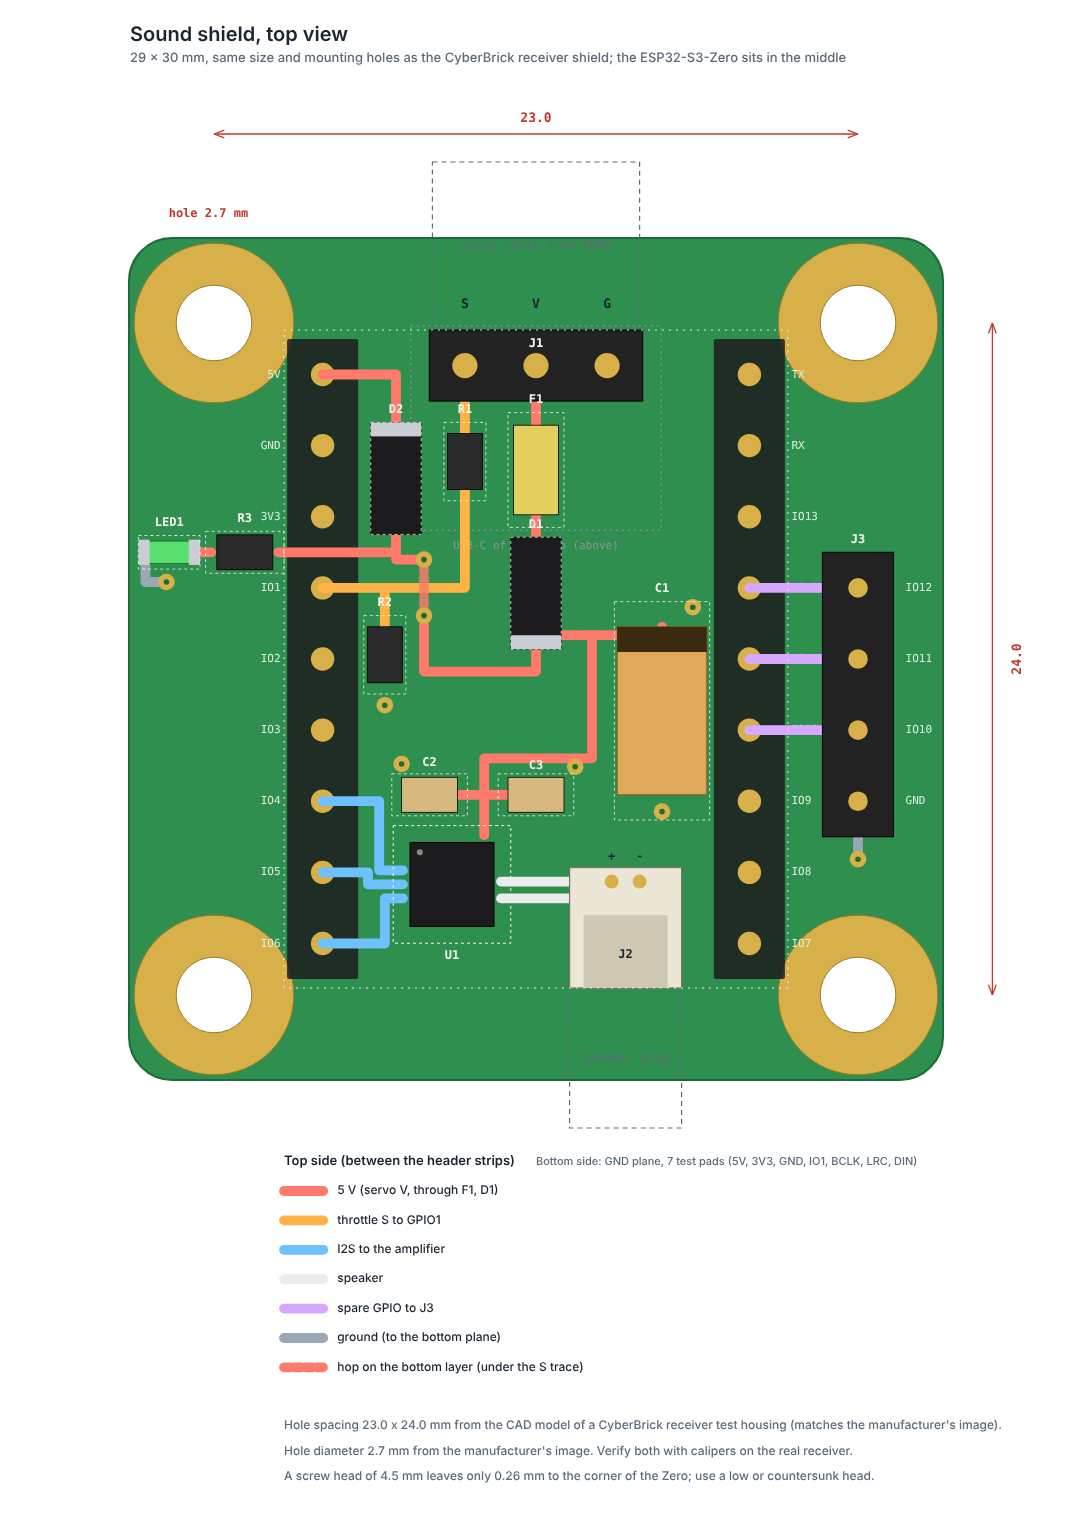
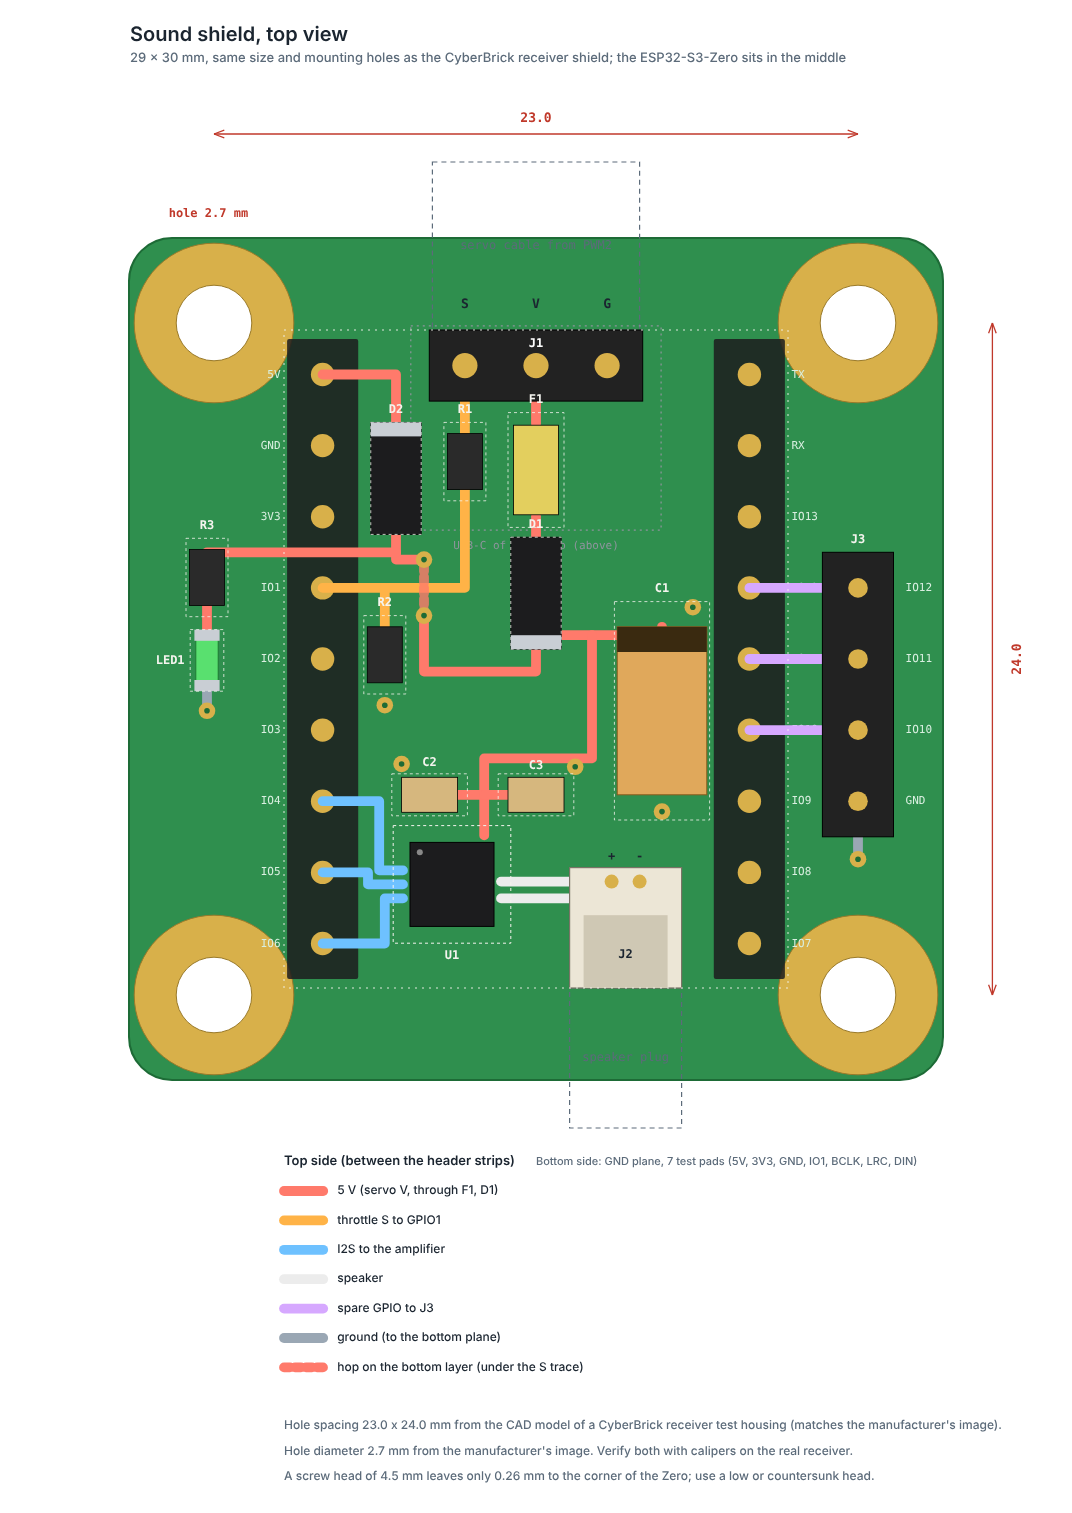
Shield: power LED and its resistor parallel to the board edge
Claude-Session: https://claude.ai/code/session_01RfFviRiwUkSRaVdHR7ASqX

Changed region(s): [[0.1231, 0.3417, 0.2771, 0.497]]

diff --git a/docs/shield-3d.html b/docs/shield-3d.html
@@ -93,7 +93,7 @@ aside h2 { margin: 0; padding: 10px 12px; font-size: 13px; font-weight: 600; let
 <script src="https://cdn.jsdelivr.net/npm/three@0.128.0/examples/js/controls/OrbitControls.js"></script>
 <script>
 (function () {
-  var D = {"board": {"x0": -5.5, "y0": -3.25, "w": 29.0, "h": 30.0, "t": 1.6}, "zero": {"w": 18.0, "l": 23.5}, "holes": [[-2.5, -0.25, 2.7], [20.5, -0.25, 2.7], [-2.5, 23.75, 2.7], [20.5, 23.75, 2.7]], "ringD": 5.7, "hdrX": [1.38, 16.62], "hdrH": 8.5, "pinY": [1.59, 4.13, 6.67, 9.21, 11.75, 14.29, 16.83, 19.37, 21.91], "leftPins": ["5V", "GND", "3V3", "IO1", "IO2", "IO3", "IO4", "IO5", "IO6"], "rightPins": ["TX", "RX", "IO13", "IO12", "IO11", "IO10", "IO9", "IO8", "IO7"], "j1x": [6.46, 9.0, 11.54], "j1y": 1.27, "parts": [{"ref": "J1", "kind": "hdr_ra", "x": 9.0, "y": 1.27, "w": 7.62, "h": 2.54, "z": 2.54, "name": "Input header (S, V, G)", "desc": "3-pin right-angle header at the top edge; the servo cable from PWM2 plugs in from outside. S = throttle copy, V = 5 V, G = ground."}, {"ref": "R1", "kind": "chip_r", "x": 6.46, "y": 4.7, "w": 1.5, "h": 2.8, "z": 0.5, "body": [1.25, 2.0], "name": "Resistor 1 kOhm", "desc": "Series resistor between the throttle signal and GPIO1."}, {"ref": "F1", "kind": "chip_f", "x": 9.0, "y": 5.0, "w": 2.0, "h": 4.1, "z": 1.0, "body": [1.6, 3.2], "name": "Resettable fuse (PTC)", "desc": "1206 PTC, about 0.5 A hold. Limits the current drawn from the servo port (the module takes about 0.1 A)."}, {"ref": "D1", "kind": "diode", "x": 9.0, "y": 9.4, "w": 1.8, "h": 4.0, "z": 1.1, "band": "bottom", "name": "Reverse-polarity diode", "desc": "Schottky diode (SOD-123) protecting the module if the servo cable is plugged in the wrong way round."}, {"ref": "D2", "kind": "diode", "x": 4.0, "y": 5.3, "w": 1.8, "h": 4.0, "z": 1.1, "band": "top", "name": "5 V OR-ing diode", "desc": "Keeps USB 5 V and servo-port 5 V from fighting, so both can be connected at the same time."}, {"ref": "R2", "kind": "chip_r", "x": 3.6, "y": 11.6, "w": 1.5, "h": 2.8, "z": 0.5, "body": [1.25, 2.0], "name": "Resistor 100 kOhm", "desc": "Pull-down on GPIO1, so the input has a defined level when the cable is unplugged."}, {"ref": "C1", "kind": "cap_t", "x": 13.5, "y": 13.6, "w": 3.4, "h": 7.8, "z": 2.8, "body": [3.2, 6.0], "name": "Bulk capacitor 100 uF", "desc": "Polymer/tantalum 6032 case. Absorbs the current peaks of loud passages so the 5 V rail does not sag."}, {"ref": "C2", "kind": "chip_c", "x": 5.2, "y": 16.6, "w": 2.7, "h": 1.5, "z": 0.9, "body": [2.0, 1.25], "name": "Decoupling 10 uF", "desc": "Ceramic 0805 close to the amplifier supply pin."}, {"ref": "C3", "kind": "chip_c", "x": 9.0, "y": 16.6, "w": 2.7, "h": 1.5, "z": 0.6, "body": [2.0, 1.25], "name": "Decoupling 100 nF", "desc": "Ceramic 0805 close to the amplifier supply pin."}, {"ref": "U1", "kind": "qfn", "x": 6.0, "y": 19.8, "w": 4.2, "h": 4.2, "z": 0.8, "body": [3.0, 3.0], "name": "MAX98357A amplifier", "desc": "I2S class-D amplifier, TQFN-16 3 x 3 mm. Receives BCLK, LRC and DIN from the ESP32 and drives the speaker directly."}, {"ref": "J2", "kind": "jst_side", "x": 12.2, "y": 21.35, "w": 4.0, "h": 4.3, "z": 3.9, "name": "Speaker connector (JST SH 1.0)", "desc": "JST SH 1.0 mm 2-pin side-entry connector at the bottom edge, the same type as the CyberBrick motor ports (M1/M2) and button ports. The speaker cable (for example the 2-pin SH cable of a button module) plugs in from outside."}, {"ref": "LED1", "kind": "led", "x": -4.1, "y": 7.94, "w": 2.2, "h": 1.2, "z": 0.6, "margin": true, "name": "Power LED", "desc": "Lights when the servo-port 5 V is present (taken after the reverse-polarity diode D1), so you can see that the cable and the receiver are fine. Hardware only, no firmware needed. Placed beside the Zero because the Zero would hide it."}, {"ref": "R3", "kind": "chip_r", "x": -1.4, "y": 7.94, "w": 2.8, "h": 1.5, "z": 0.5, "body": [2.0, 1.25], "margin": true, "name": "LED resistor 1 kOhm", "desc": "Series resistor of the power LED (about 3 mA)."}, {"ref": "J3", "kind": "hdr_v", "x": 20.5, "y": 13.02, "w": 2.54, "h": 10.16, "z": 2.5, "margin": true, "pins": [[20.5, 9.21], [20.5, 11.75], [20.5, 14.29], [20.5, 16.83]], "pin_names": ["IO12", "IO11", "IO10", "GND"], "name": "Spare GPIO header", "desc": "1x4 pin header with three free GPIOs (IO12, IO11, IO10) and ground, for later inputs, for example a switch for an engine-stop sound."}], "nets": [{"net": "S", "color": "#ffb347", "pts": [[6.46, 1.27], [6.46, 3.8]]}, {"net": "S", "color": "#ffb347", "pts": [[6.46, 5.6], [6.46, 9.21], [1.38, 9.21]]}, {"net": "V", "color": "#ff7a6b", "pts": [[9.0, 1.27], [9.0, 3.35]]}, {"net": "V", "color": "#ff7a6b", "pts": [[9.0, 6.65], [9.0, 7.9]]}, {"net": "5V", "color": "#ff7a6b", "pts": [[9.0, 10.9], [13.5, 10.9], [13.5, 10.6]]}, {"net": "5V", "color": "#ff7a6b", "pts": [[9.0, 10.9], [9.0, 12.2], [5.0, 12.2], [5.0, 10.2]]}, {"net": "5V", "color": "#ff7a6b", "layer": "bot", "pts": [[5.0, 10.2], [5.0, 8.2]]}, {"net": "5V", "color": "#ff7a6b", "pts": [[5.0, 8.2], [4.0, 8.2], [4.0, 6.9]]}, {"net": "5V", "color": "#ff7a6b", "pts": [[4.0, 3.7], [4.0, 1.59], [1.38, 1.59]]}, {"net": "5V", "color": "#ff7a6b", "pts": [[11.0, 10.9], [11.0, 15.3], [7.15, 15.3], [7.15, 18.05]]}, {"net": "5V", "color": "#ff7a6b", "pts": [[6.2, 16.6], [7.15, 16.6]]}, {"net": "5V", "color": "#ff7a6b", "pts": [[7.15, 16.6], [8.0, 16.6]]}, {"net": "DIN", "color": "#6ec1ff", "pts": [[1.38, 16.83], [3.4, 16.83], [3.4, 19.3], [4.25, 19.3]]}, {"net": "BCLK", "color": "#6ec1ff", "pts": [[1.38, 19.37], [3.0, 19.37], [3.0, 19.8], [4.25, 19.8]]}, {"net": "LRC", "color": "#6ec1ff", "pts": [[1.38, 21.91], [3.6, 21.91], [3.6, 20.3], [4.25, 20.3]]}, {"net": "SPK+", "color": "#ececec", "pts": [[7.75, 19.7], [11.7, 19.7]]}, {"net": "SPK-", "color": "#ececec", "pts": [[7.75, 20.3], [12.7, 20.3], [12.7, 19.7]]}, {"net": "S", "color": "#ffb347", "pts": [[3.6, 9.21], [3.6, 10.6]]}, {"net": "5V", "color": "#ff7a6b", "pts": [[4.0, 7.94], [-0.2, 7.94]]}, {"net": "5V", "color": "#ff7a6b", "pts": [[-2.6, 7.94], [-3.25, 7.94]]}, {"net": "GND", "color": "#9aa7b4", "pts": [[-4.95, 7.94], [-4.95, 9.0], [-4.2, 9.0]]}, {"net": "IO12", "color": "#d6a8ff", "pts": [[16.62, 9.21], [20.5, 9.21]]}, {"net": "IO11", "color": "#d6a8ff", "pts": [[16.62, 11.75], [20.5, 11.75]]}, {"net": "IO10", "color": "#d6a8ff", "pts": [[16.62, 14.29], [20.5, 14.29]]}, {"net": "GND", "color": "#9aa7b4", "pts": [[20.5, 16.83], [20.5, 18.9]]}], "j2Pads": [[11.7, 19.7], [12.7, 19.7]], "gndVias": [[3.6, 13.4], [4.2, 15.5], [10.4, 15.6], [13.5, 17.2], [6.0, 19.8], [14.6, 9.9], [-4.2, 9.0], [20.5, 18.9]], "hopVias": [[5.0, 10.2], [5.0, 8.2]], "tp": [[3.4, 22.7], [5.4, 22.7], [7.4, 22.7], [9.4, 22.7], [11.4, 22.7], [13.4, 22.7], [15.4, 22.7]], "tpNames": ["5V", "3V3", "GND", "IO1", "BCLK", "LRC", "DIN"]};
+  var D = {"board": {"x0": -5.5, "y0": -3.25, "w": 29.0, "h": 30.0, "t": 1.6}, "zero": {"w": 18.0, "l": 23.5}, "holes": [[-2.5, -0.25, 2.7], [20.5, -0.25, 2.7], [-2.5, 23.75, 2.7], [20.5, 23.75, 2.7]], "ringD": 5.7, "hdrX": [1.38, 16.62], "hdrH": 8.5, "pinY": [1.59, 4.13, 6.67, 9.21, 11.75, 14.29, 16.83, 19.37, 21.91], "leftPins": ["5V", "GND", "3V3", "IO1", "IO2", "IO3", "IO4", "IO5", "IO6"], "rightPins": ["TX", "RX", "IO13", "IO12", "IO11", "IO10", "IO9", "IO8", "IO7"], "j1x": [6.46, 9.0, 11.54], "j1y": 1.27, "parts": [{"ref": "J1", "kind": "hdr_ra", "x": 9.0, "y": 1.27, "w": 7.62, "h": 2.54, "z": 2.54, "name": "Input header (S, V, G)", "desc": "3-pin right-angle header at the top edge; the servo cable from PWM2 plugs in from outside. S = throttle copy, V = 5 V, G = ground."}, {"ref": "R1", "kind": "chip_r", "x": 6.46, "y": 4.7, "w": 1.5, "h": 2.8, "z": 0.5, "body": [1.25, 2.0], "name": "Resistor 1 kOhm", "desc": "Series resistor between the throttle signal and GPIO1."}, {"ref": "F1", "kind": "chip_f", "x": 9.0, "y": 5.0, "w": 2.0, "h": 4.1, "z": 1.0, "body": [1.6, 3.2], "name": "Resettable fuse (PTC)", "desc": "1206 PTC, about 0.5 A hold. Limits the current drawn from the servo port (the module takes about 0.1 A)."}, {"ref": "D1", "kind": "diode", "x": 9.0, "y": 9.4, "w": 1.8, "h": 4.0, "z": 1.1, "band": "bottom", "name": "Reverse-polarity diode", "desc": "Schottky diode (SOD-123) protecting the module if the servo cable is plugged in the wrong way round."}, {"ref": "D2", "kind": "diode", "x": 4.0, "y": 5.3, "w": 1.8, "h": 4.0, "z": 1.1, "band": "top", "name": "5 V OR-ing diode", "desc": "Keeps USB 5 V and servo-port 5 V from fighting, so both can be connected at the same time."}, {"ref": "R2", "kind": "chip_r", "x": 3.6, "y": 11.6, "w": 1.5, "h": 2.8, "z": 0.5, "body": [1.25, 2.0], "name": "Resistor 100 kOhm", "desc": "Pull-down on GPIO1, so the input has a defined level when the cable is unplugged."}, {"ref": "C1", "kind": "cap_t", "x": 13.5, "y": 13.6, "w": 3.4, "h": 7.8, "z": 2.8, "body": [3.2, 6.0], "name": "Bulk capacitor 100 uF", "desc": "Polymer/tantalum 6032 case. Absorbs the current peaks of loud passages so the 5 V rail does not sag."}, {"ref": "C2", "kind": "chip_c", "x": 5.2, "y": 16.6, "w": 2.7, "h": 1.5, "z": 0.9, "body": [2.0, 1.25], "name": "Decoupling 10 uF", "desc": "Ceramic 0805 close to the amplifier supply pin."}, {"ref": "C3", "kind": "chip_c", "x": 9.0, "y": 16.6, "w": 2.7, "h": 1.5, "z": 0.6, "body": [2.0, 1.25], "name": "Decoupling 100 nF", "desc": "Ceramic 0805 close to the amplifier supply pin."}, {"ref": "U1", "kind": "qfn", "x": 6.0, "y": 19.8, "w": 4.2, "h": 4.2, "z": 0.8, "body": [3.0, 3.0], "name": "MAX98357A amplifier", "desc": "I2S class-D amplifier, TQFN-16 3 x 3 mm. Receives BCLK, LRC and DIN from the ESP32 and drives the speaker directly."}, {"ref": "J2", "kind": "jst_side", "x": 12.2, "y": 21.35, "w": 4.0, "h": 4.3, "z": 3.9, "name": "Speaker connector (JST SH 1.0)", "desc": "JST SH 1.0 mm 2-pin side-entry connector at the bottom edge, the same type as the CyberBrick motor ports (M1/M2) and button ports. The speaker cable (for example the 2-pin SH cable of a button module) plugs in from outside."}, {"ref": "LED1", "kind": "led", "x": -2.75, "y": 11.8, "w": 1.2, "h": 2.2, "z": 0.6, "margin": true, "name": "Power LED", "desc": "Lights when the servo-port 5 V is present (taken after the reverse-polarity diode D1), so you can see that the cable and the receiver are fine. Hardware only, no firmware needed. Placed beside the Zero because the Zero would hide it."}, {"ref": "R3", "kind": "chip_r", "x": -2.75, "y": 8.84, "w": 1.5, "h": 2.8, "z": 0.5, "body": [1.25, 2.0], "margin": true, "name": "LED resistor 1 kOhm", "desc": "Series resistor of the power LED (about 3 mA)."}, {"ref": "J3", "kind": "hdr_v", "x": 20.5, "y": 13.02, "w": 2.54, "h": 10.16, "z": 2.5, "margin": true, "pins": [[20.5, 9.21], [20.5, 11.75], [20.5, 14.29], [20.5, 16.83]], "pin_names": ["IO12", "IO11", "IO10", "GND"], "name": "Spare GPIO header", "desc": "1x4 pin header with three free GPIOs (IO12, IO11, IO10) and ground, for later inputs, for example a switch for an engine-stop sound."}], "nets": [{"net": "S", "color": "#ffb347", "pts": [[6.46, 1.27], [6.46, 3.8]]}, {"net": "S", "color": "#ffb347", "pts": [[6.46, 5.6], [6.46, 9.21], [1.38, 9.21]]}, {"net": "V", "color": "#ff7a6b", "pts": [[9.0, 1.27], [9.0, 3.35]]}, {"net": "V", "color": "#ff7a6b", "pts": [[9.0, 6.65], [9.0, 7.9]]}, {"net": "5V", "color": "#ff7a6b", "pts": [[9.0, 10.9], [13.5, 10.9], [13.5, 10.6]]}, {"net": "5V", "color": "#ff7a6b", "pts": [[9.0, 10.9], [9.0, 12.2], [5.0, 12.2], [5.0, 10.2]]}, {"net": "5V", "color": "#ff7a6b", "layer": "bot", "pts": [[5.0, 10.2], [5.0, 8.2]]}, {"net": "5V", "color": "#ff7a6b", "pts": [[5.0, 8.2], [4.0, 8.2], [4.0, 6.9]]}, {"net": "5V", "color": "#ff7a6b", "pts": [[4.0, 3.7], [4.0, 1.59], [1.38, 1.59]]}, {"net": "5V", "color": "#ff7a6b", "pts": [[11.0, 10.9], [11.0, 15.3], [7.15, 15.3], [7.15, 18.05]]}, {"net": "5V", "color": "#ff7a6b", "pts": [[6.2, 16.6], [7.15, 16.6]]}, {"net": "5V", "color": "#ff7a6b", "pts": [[7.15, 16.6], [8.0, 16.6]]}, {"net": "DIN", "color": "#6ec1ff", "pts": [[1.38, 16.83], [3.4, 16.83], [3.4, 19.3], [4.25, 19.3]]}, {"net": "BCLK", "color": "#6ec1ff", "pts": [[1.38, 19.37], [3.0, 19.37], [3.0, 19.8], [4.25, 19.8]]}, {"net": "LRC", "color": "#6ec1ff", "pts": [[1.38, 21.91], [3.6, 21.91], [3.6, 20.3], [4.25, 20.3]]}, {"net": "SPK+", "color": "#ececec", "pts": [[7.75, 19.7], [11.7, 19.7]]}, {"net": "SPK-", "color": "#ececec", "pts": [[7.75, 20.3], [12.7, 20.3], [12.7, 19.7]]}, {"net": "S", "color": "#ffb347", "pts": [[3.6, 9.21], [3.6, 10.6]]}, {"net": "5V", "color": "#ff7a6b", "pts": [[4.0, 7.94], [-2.75, 7.94]]}, {"net": "5V", "color": "#ff7a6b", "pts": [[-2.75, 9.74], [-2.75, 10.9]]}, {"net": "GND", "color": "#9aa7b4", "pts": [[-2.75, 12.7], [-2.75, 13.6]]}, {"net": "IO12", "color": "#d6a8ff", "pts": [[16.62, 9.21], [20.5, 9.21]]}, {"net": "IO11", "color": "#d6a8ff", "pts": [[16.62, 11.75], [20.5, 11.75]]}, {"net": "IO10", "color": "#d6a8ff", "pts": [[16.62, 14.29], [20.5, 14.29]]}, {"net": "GND", "color": "#9aa7b4", "pts": [[20.5, 16.83], [20.5, 18.9]]}], "j2Pads": [[11.7, 19.7], [12.7, 19.7]], "gndVias": [[3.6, 13.4], [4.2, 15.5], [10.4, 15.6], [13.5, 17.2], [6.0, 19.8], [14.6, 9.9], [-2.75, 13.6], [20.5, 18.9]], "hopVias": [[5.0, 10.2], [5.0, 8.2]], "tp": [[3.4, 22.7], [5.4, 22.7], [7.4, 22.7], [9.4, 22.7], [11.4, 22.7], [13.4, 22.7], [15.4, 22.7]], "tpNames": ["5V", "3V3", "GND", "IO1", "BCLK", "LRC", "DIN"]};
   var BW = D.board.w, BH = D.board.h, BT = D.board.t, BX0 = D.board.x0, BY0 = D.board.y0;
   var CXM = BX0 + BW / 2, CYM = BY0 + BH / 2, ZW = D.zero.w, ZL = D.zero.l;
   document.getElementById('sub').textContent = BW + ' × ' + BH + ' mm · same size and mounting holes as the CyberBrick receiver shield · mock, not routed';
@@ -274,8 +274,8 @@ aside h2 { margin: 0; padding: 10px 12px; font-size: 13px; font-weight: 600; let
       }
       g.add(box(p.x - 1.0, p.y - 1.0, 0.4, 0.4, 0.82, M.silver));
     } else if (k === 'led') {
-      g.add(box(p.x, p.y, 1.6, 0.8, p.z, M.ledG));
-      g.add(box(p.x - 0.85, p.y, 0.4, 0.8, p.z + 0.02, M.silver)); g.add(box(p.x + 0.85, p.y, 0.4, 0.8, p.z + 0.02, M.silver));
+      g.add(box(p.x, p.y, 0.8, 1.6, p.z, M.ledG));
+      g.add(box(p.x, p.y - 0.85, 0.8, 0.4, p.z + 0.02, M.silver)); g.add(box(p.x, p.y + 0.85, 0.8, 0.4, p.z + 0.02, M.silver));
     } else if (k === 'hdr_v') {
       g.add(box(p.x, p.y, p.w, p.h, p.z, M.black));
       p.pins.forEach(function (q) { g.add(box(q[0], q[1], 0.64, 0.64, 8.5, M.gold, BT + 0.5)); });

diff --git a/tools/shield-3d.template.html b/tools/shield-3d.template.html
@@ -274,8 +274,8 @@ aside h2 { margin: 0; padding: 10px 12px; font-size: 13px; font-weight: 600; let
       }
       g.add(box(p.x - 1.0, p.y - 1.0, 0.4, 0.4, 0.82, M.silver));
     } else if (k === 'led') {
-      g.add(box(p.x, p.y, 1.6, 0.8, p.z, M.ledG));
-      g.add(box(p.x - 0.85, p.y, 0.4, 0.8, p.z + 0.02, M.silver)); g.add(box(p.x + 0.85, p.y, 0.4, 0.8, p.z + 0.02, M.silver));
+      g.add(box(p.x, p.y, 0.8, 1.6, p.z, M.ledG));
+      g.add(box(p.x, p.y - 0.85, 0.8, 0.4, p.z + 0.02, M.silver)); g.add(box(p.x, p.y + 0.85, 0.8, 0.4, p.z + 0.02, M.silver));
     } else if (k === 'hdr_v') {
       g.add(box(p.x, p.y, p.w, p.h, p.z, M.black));
       p.pins.forEach(function (q) { g.add(box(q[0], q[1], 0.64, 0.64, 8.5, M.gold, BT + 0.5)); });

diff --git a/tools/shield_layout.py b/tools/shield_layout.py
@@ -49,9 +49,9 @@ PARTS = [
     dict(ref="J2", kind="jst_side", x=12.2, y=21.35, w=4.0, h=4.3, z=3.9,
          name="Speaker connector (JST SH 1.0)", desc="JST SH 1.0 mm 2-pin side-entry connector at the bottom edge, the same type as the CyberBrick motor ports (M1/M2) and button ports. The speaker cable (for example the 2-pin SH cable of a button module) plugs in from outside."),
     # parts in the margin around the Zero (the board is larger than the Zero), so they stay visible from above
-    dict(ref="LED1", kind="led", x=-4.1, y=7.94, w=2.2, h=1.2, z=0.6, margin=True,
+    dict(ref="LED1", kind="led", x=-2.75, y=11.8, w=1.2, h=2.2, z=0.6, margin=True,
          name="Power LED", desc="Lights when the servo-port 5 V is present (taken after the reverse-polarity diode D1), so you can see that the cable and the receiver are fine. Hardware only, no firmware needed. Placed beside the Zero because the Zero would hide it."),
-    dict(ref="R3", kind="chip_r", x=-1.4, y=7.94, w=2.8, h=1.5, z=0.5, body=(2.0, 1.25), margin=True,
+    dict(ref="R3", kind="chip_r", x=-2.75, y=8.84, w=1.5, h=2.8, z=0.5, body=(1.25, 2.0), margin=True,
          name="LED resistor 1 kOhm", desc="Series resistor of the power LED (about 3 mA)."),
     dict(ref="J3", kind="hdr_v", x=20.5, y=13.02, w=2.54, h=10.16, z=2.5, margin=True,
          pins=[[20.5, 9.21], [20.5, 11.75], [20.5, 14.29], [20.5, 16.83]], pin_names=["IO12", "IO11", "IO10", "GND"],
@@ -83,9 +83,9 @@ NETS = [
     # pull-down tap
     dict(net="S", color="#ffb347", pts=[[3.6, IO1_Y], [3.6, 10.6]]),
     # power LED, from the 5 V rail between D2 and the hop
-    dict(net="5V", color="#ff7a6b", pts=[[4.0, 7.94], [-0.2, 7.94]]),
-    dict(net="5V", color="#ff7a6b", pts=[[-2.6, 7.94], [-3.25, 7.94]]),
-    dict(net="GND", color="#9aa7b4", pts=[[-4.95, 7.94], [-4.95, 9.0], [-4.2, 9.0]]),
+    dict(net="5V", color="#ff7a6b", pts=[[4.0, 7.94], [-2.75, 7.94]]),
+    dict(net="5V", color="#ff7a6b", pts=[[-2.75, 9.74], [-2.75, 10.9]]),
+    dict(net="GND", color="#9aa7b4", pts=[[-2.75, 12.7], [-2.75, 13.6]]),
     # spare GPIO header
     dict(net="IO12", color="#d6a8ff", pts=[[HDR_X[1], PIN_Y[3]], [20.5, PIN_Y[3]]]),
     dict(net="IO11", color="#d6a8ff", pts=[[HDR_X[1], PIN_Y[4]], [20.5, PIN_Y[4]]]),
@@ -93,7 +93,7 @@ NETS = [
     dict(net="GND", color="#9aa7b4", pts=[[20.5, PIN_Y[6]], [20.5, 18.9]]),
 ]
 # GND vias (GND plane on the bottom layer) and the hop vias
-GND_VIAS = [[3.6, 13.4], [4.2, 15.5], [10.4, 15.6], [13.5, 17.2], [6.0, 19.8], [14.6, 9.9], [-4.2, 9.0], [20.5, 18.9]]
+GND_VIAS = [[3.6, 13.4], [4.2, 15.5], [10.4, 15.6], [13.5, 17.2], [6.0, 19.8], [14.6, 9.9], [-2.75, 13.6], [20.5, 18.9]]
 HOP_VIAS = [[5.0, 10.2], [5.0, 8.2]]
 
 J2_PADS = [[11.7, 19.7], [12.7, 19.7]]       # signal pads of J2 (1.0 mm pitch), + and -

diff --git a/tools/make_shield_mock.py b/tools/make_shield_mock.py
@@ -127,10 +127,10 @@ def panel(vid, title, sub, tx_px=None):
             for px, py in L.J2_PADS:
                 o.append(f'<circle cx="{X(px):.1f}" cy="{Y(py):.1f}" r="{0.5 * S / 2:.1f}" fill="#d8b04a"/>')
             o.append(text(L.J2_PADS[0][0], L.J2_PADS[0][1] - 0.9, "+", 12, "middle", 700)); o.append(text(L.J2_PADS[1][0], L.J2_PADS[1][1] - 0.9, "-", 12, "middle", 700))
-        elif k == "led":
-            o.append(rect(p["x"] - 0.8, p["y"] - 0.4, p["x"] + 0.8, p["y"] + 0.4, fill="#59e06f", stroke="#1f7a33", stroke_width=1))
-            o.append(rect(p["x"] - 1.1, p["y"] - 0.45, p["x"] - 0.7, p["y"] + 0.45, fill="#c9ced4", stroke="none"))
-            o.append(rect(p["x"] + 0.7, p["y"] - 0.45, p["x"] + 1.1, p["y"] + 0.45, fill="#c9ced4", stroke="none"))
+        elif k == "led":                                 # vertical: parallel to the left board edge
+            o.append(rect(p["x"] - 0.4, p["y"] - 0.8, p["x"] + 0.4, p["y"] + 0.8, fill="#59e06f", stroke="#1f7a33", stroke_width=1))
+            o.append(rect(p["x"] - 0.45, p["y"] - 1.1, p["x"] + 0.45, p["y"] - 0.7, fill="#c9ced4", stroke="none"))
+            o.append(rect(p["x"] - 0.45, p["y"] + 0.7, p["x"] + 0.45, p["y"] + 1.1, fill="#c9ced4", stroke="none"))
             o.append(rect(x0, y0, x1, y1, fill="none", stroke="#f4f4ee", stroke_width=0.8, stroke_dasharray="3 3"))
         elif k == "hdr_v":
             o.append(rect(x0, y0, x1, y1, fill="#222", stroke="#000", stroke_width=1))
@@ -157,7 +157,9 @@ def panel(vid, title, sub, tx_px=None):
                 o.append(rect(p["x"] - bw / 2, yb, p["x"] + bw / 2, yb + 0.5, fill="#c9ced4", stroke="none"))
         # reference label
         lx = x1 + 0.25 if p["ref"] not in ("J1", "J2", "U1", "C2", "C3") else None
-        if p["ref"] in ("R1", "F1", "D1", "D2", "R2", "C1", "LED1", "R3", "J3"):
+        if p["ref"] == "LED1":
+            o.append(text(x0 - 0.2, p["y"], "LED1", 12, "end", 700, "#f4f4ee"))
+        elif p["ref"] in ("R1", "F1", "D1", "D2", "R2", "C1", "R3", "J3"):
             o.append(text(p["x"], y0 - 0.45 if p["ref"] != "C1" else y0 - 0.45, p["ref"], 12, "middle", 700, "#f4f4ee"))
     for ref, x, y in (("U1", 6.0, 17.35), ("C2", 5.2, 15.35), ("C3", 9.0, 15.35), ("J2", 12.2, 23.9)):
         pass
